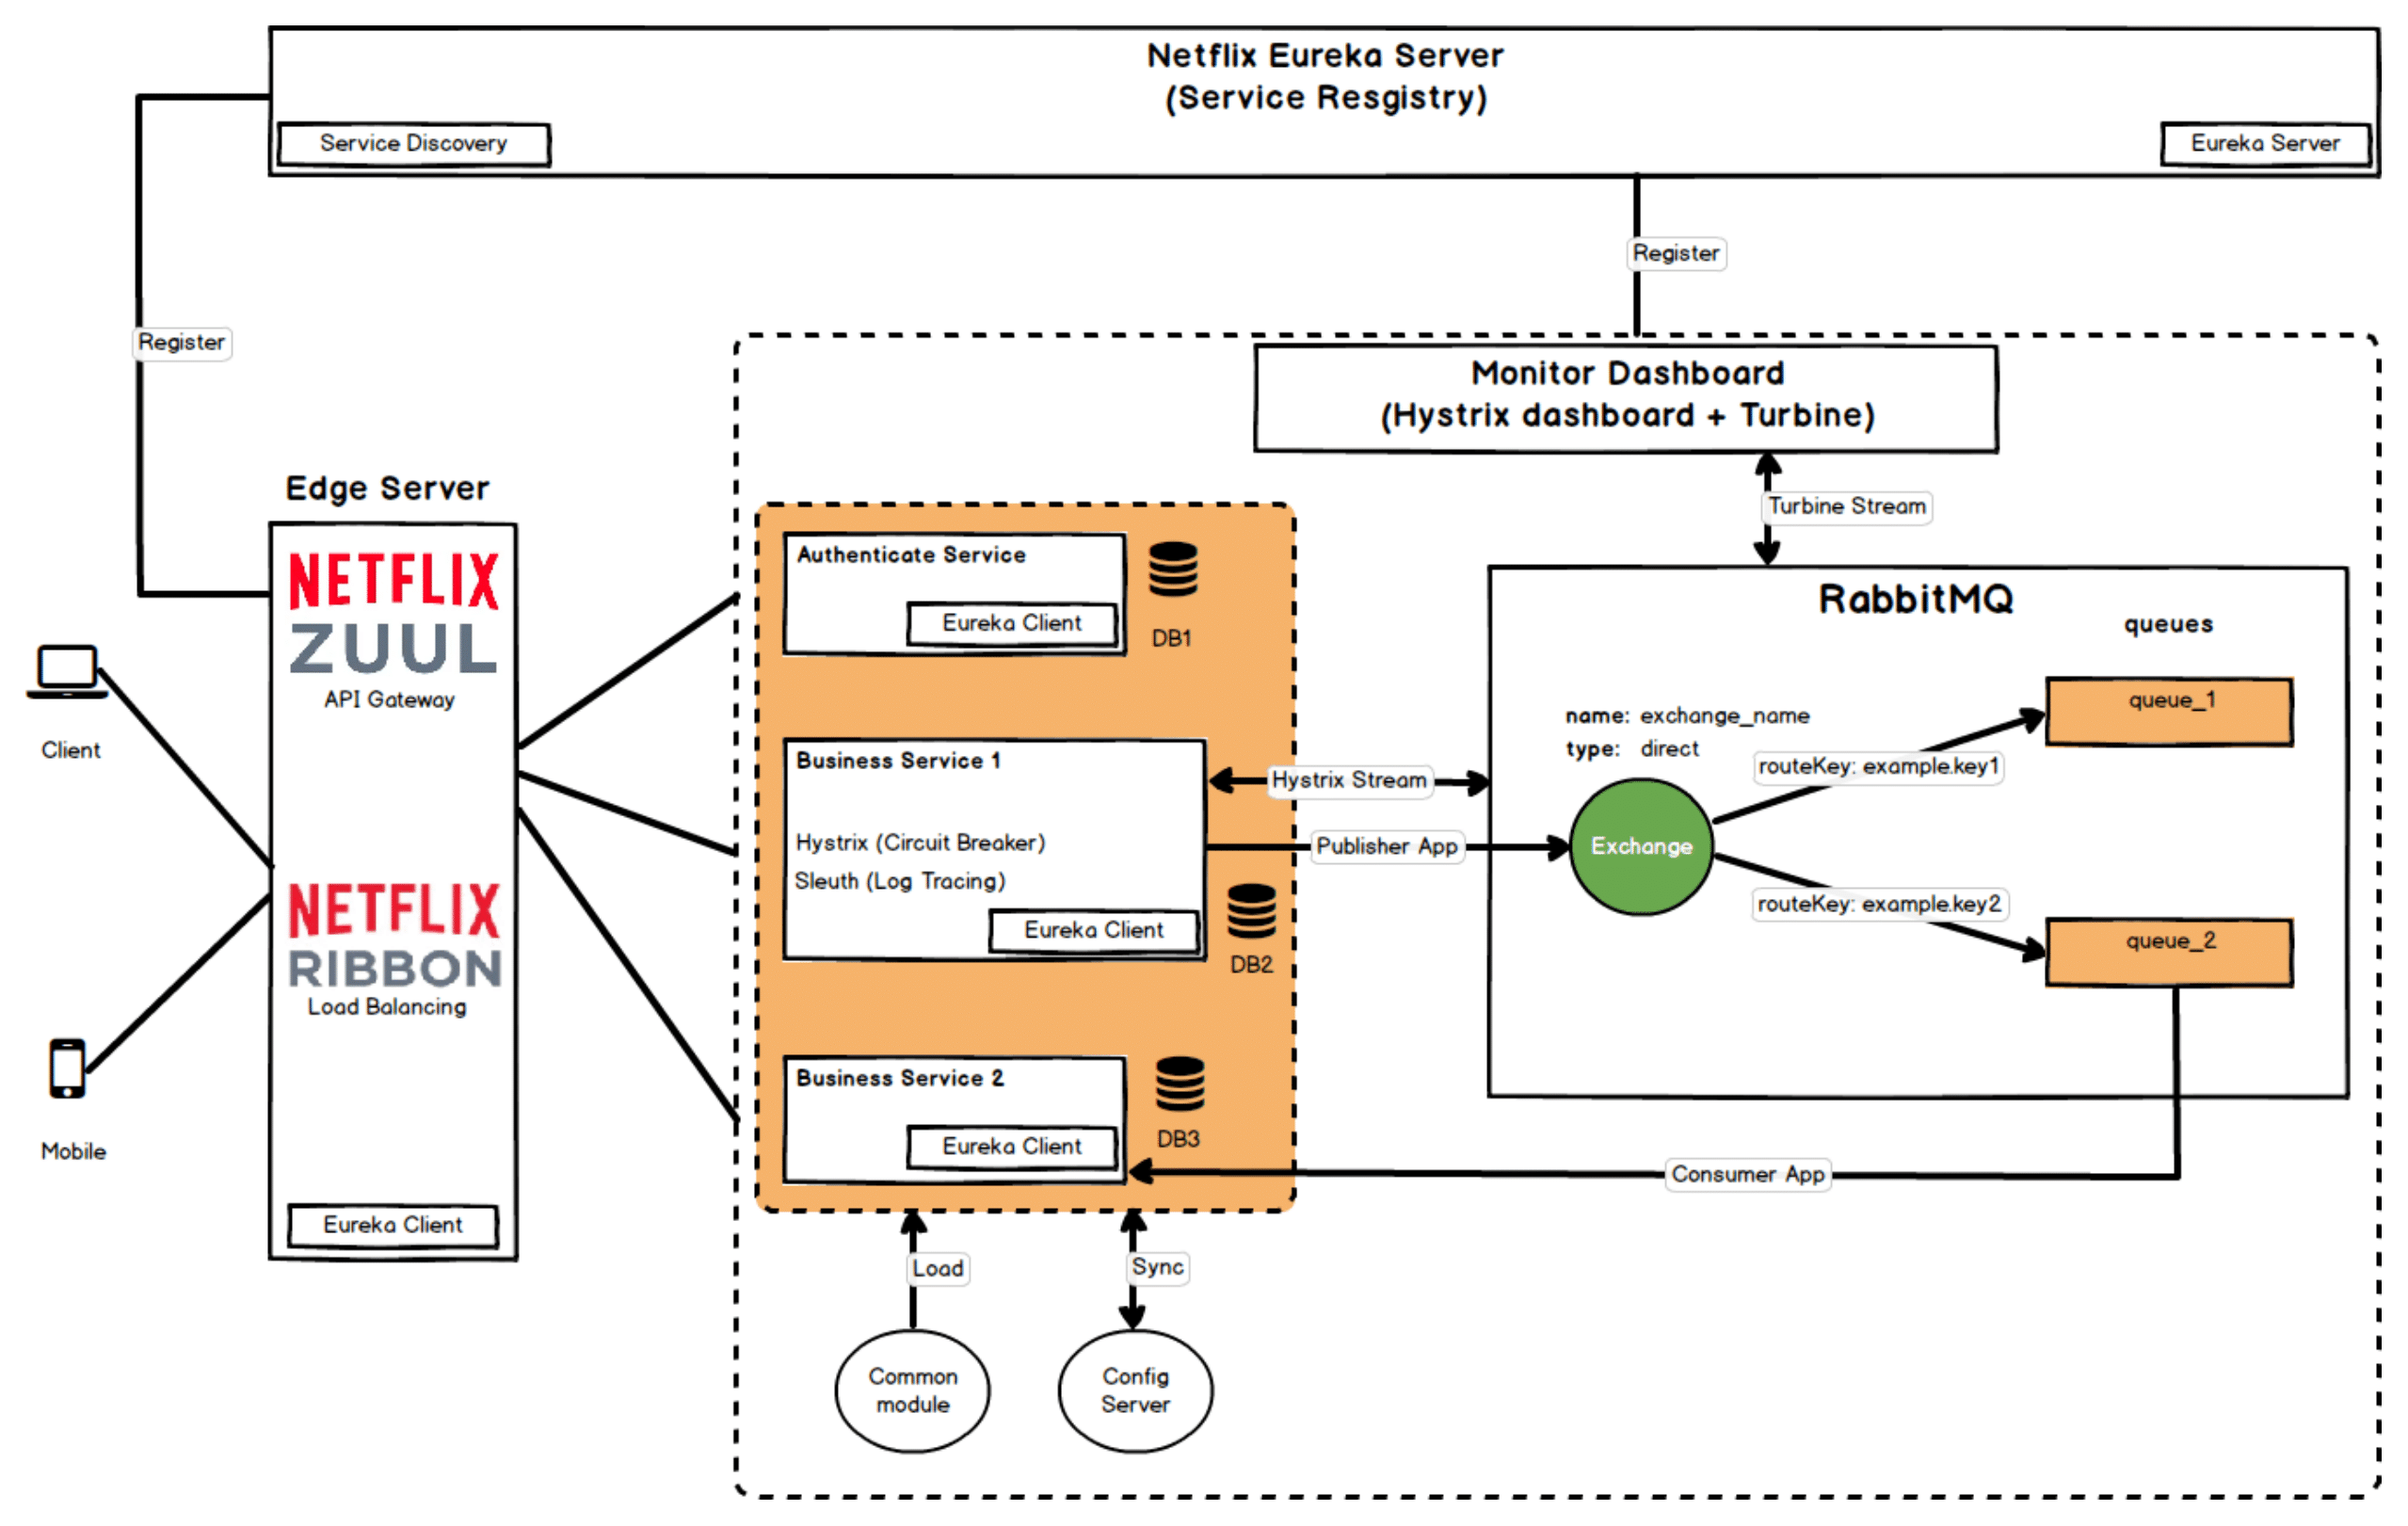
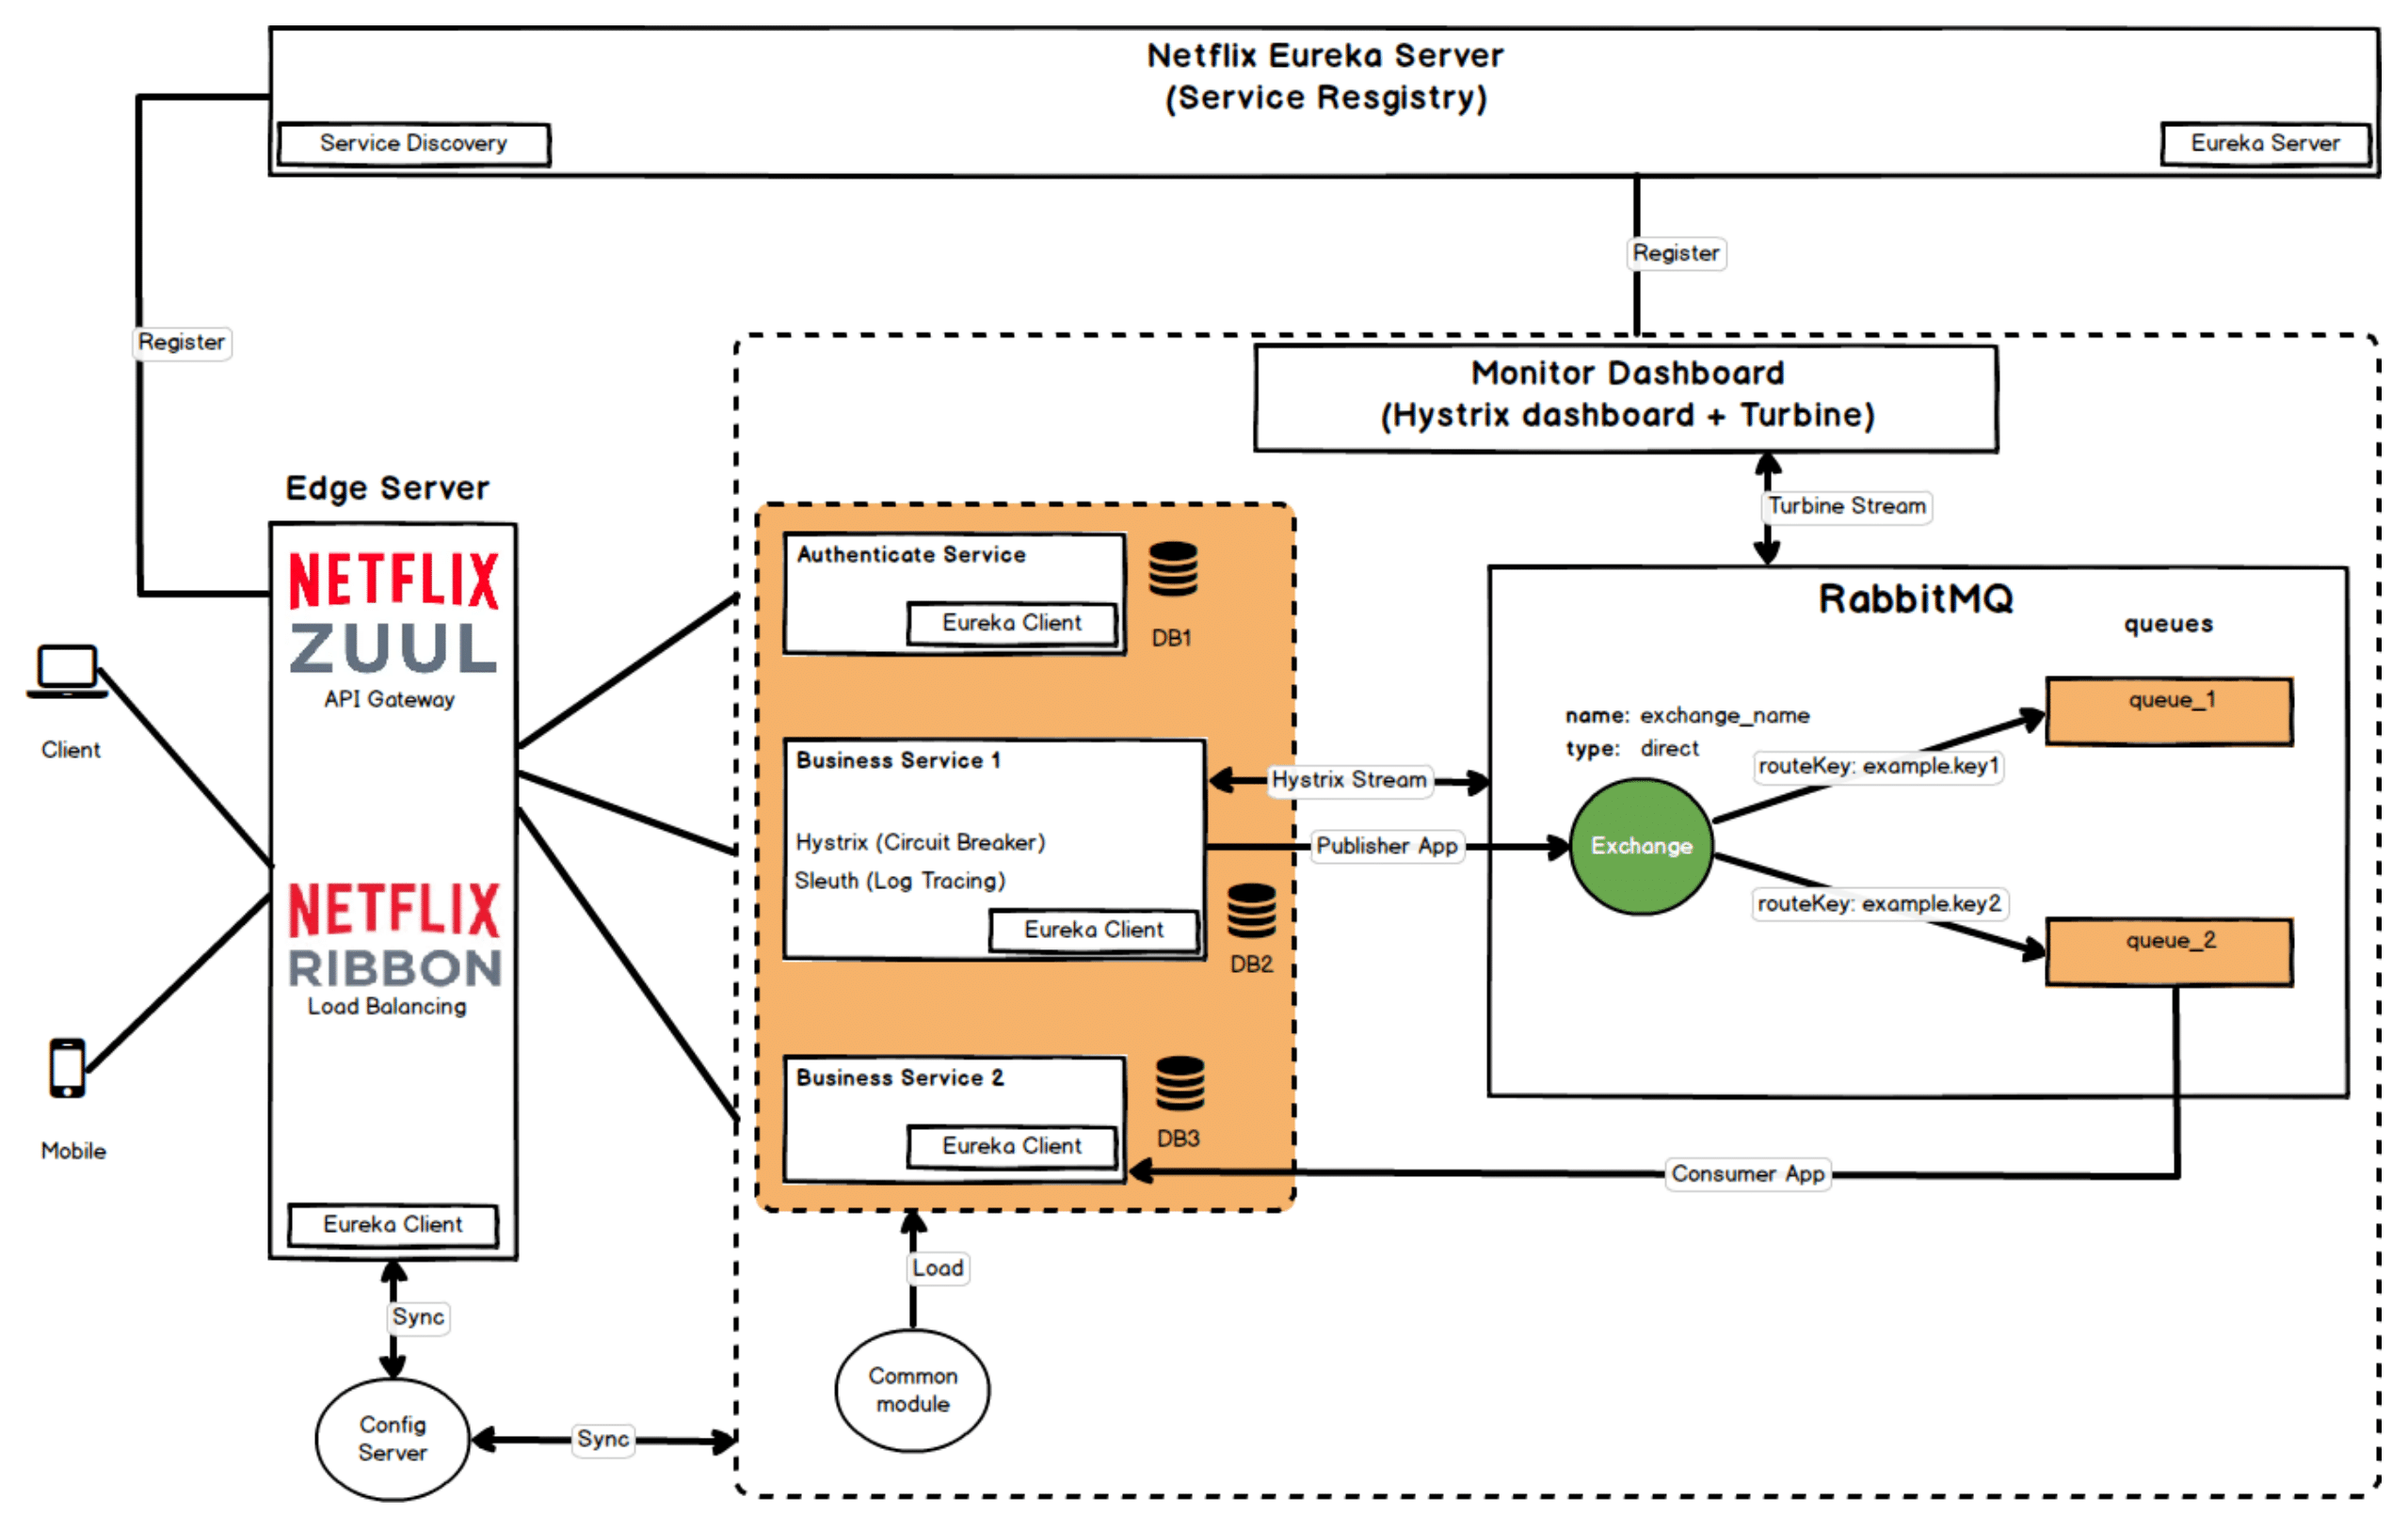
Update readme

diff --git a/README.md b/README.md
@@ -14,8 +14,9 @@
 -  **Circuit Breaker:** Netflix Hystrix
 -  **Gatekeeper:** Netflix Zuul
 -  **Intelligent Routing, Load Balancing:** Netflix Ribbon
--  **Monitoring:** Netflix Hystrix dashboard and Netflix Turbine
+-  **Monitoring:** Netflix Hystrix Dashboard and Netflix Turbine
 -  **Log Tracing:** Sleuth, Zipkin
+-  **Centralized Configuration:** Spring Cloud Config Server
 ### Architecture
 ![Netflix OSS's architecture](readme/netflix-oss-architecture.png)
 
